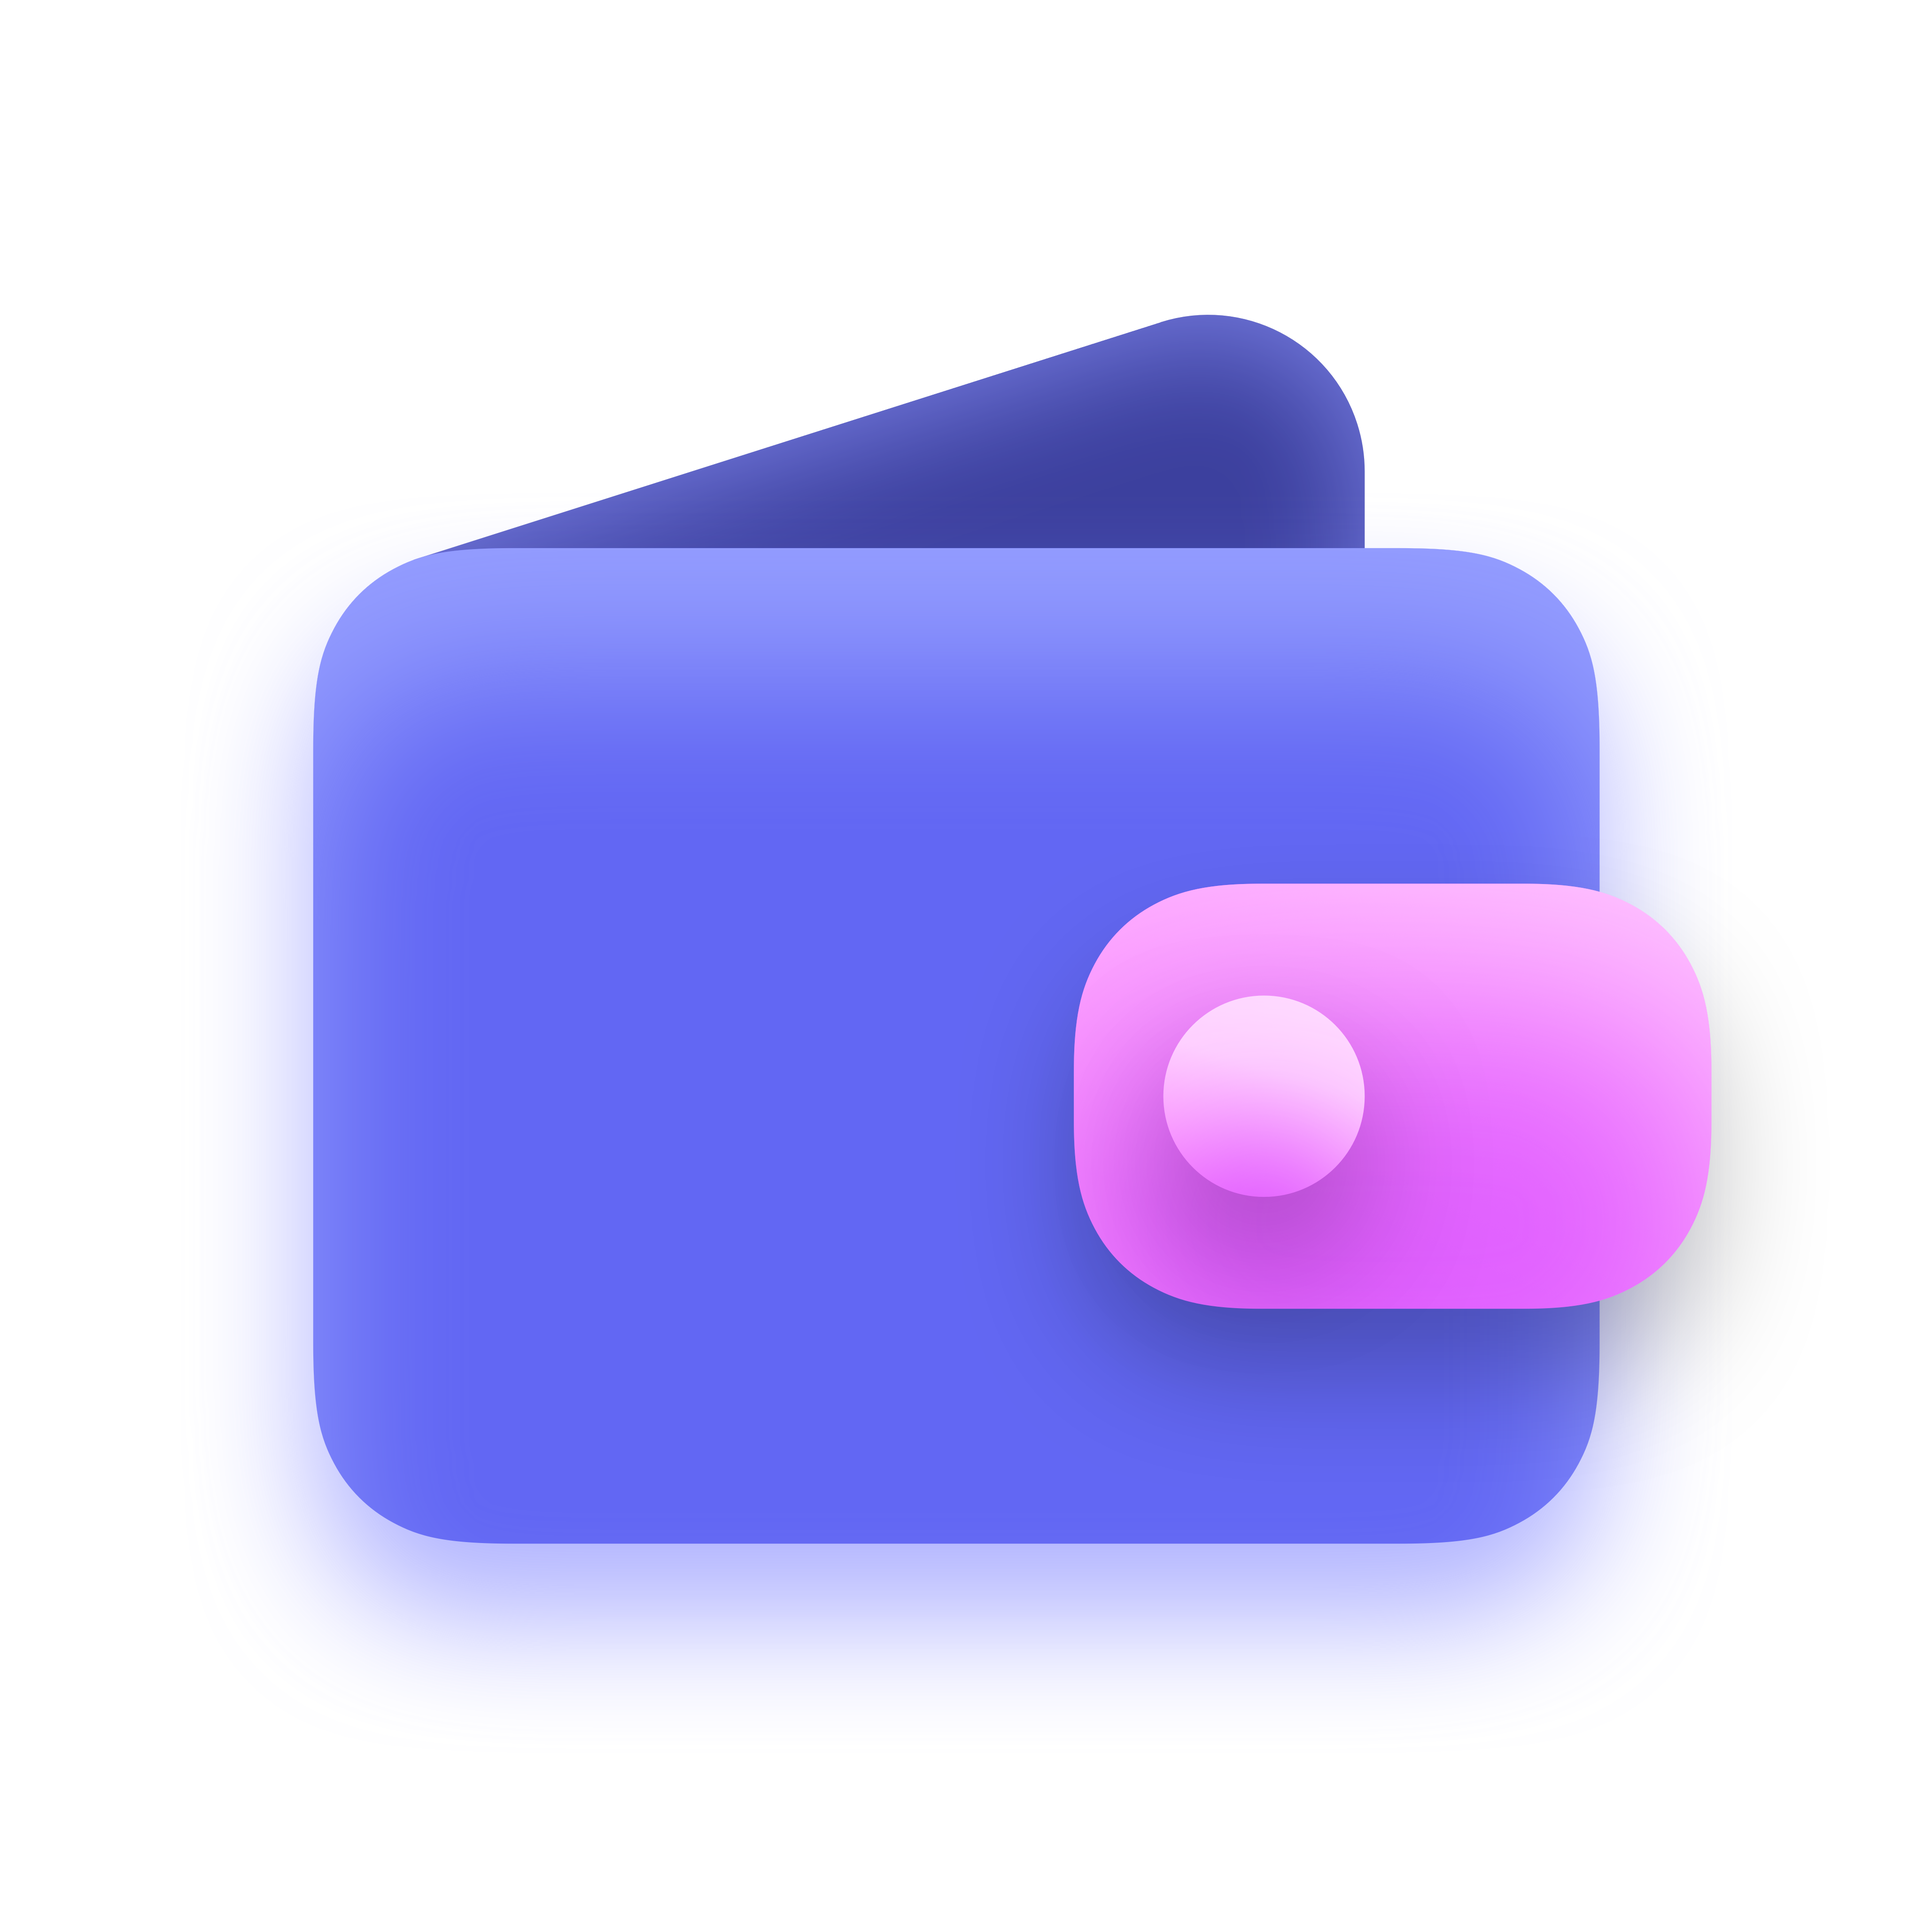
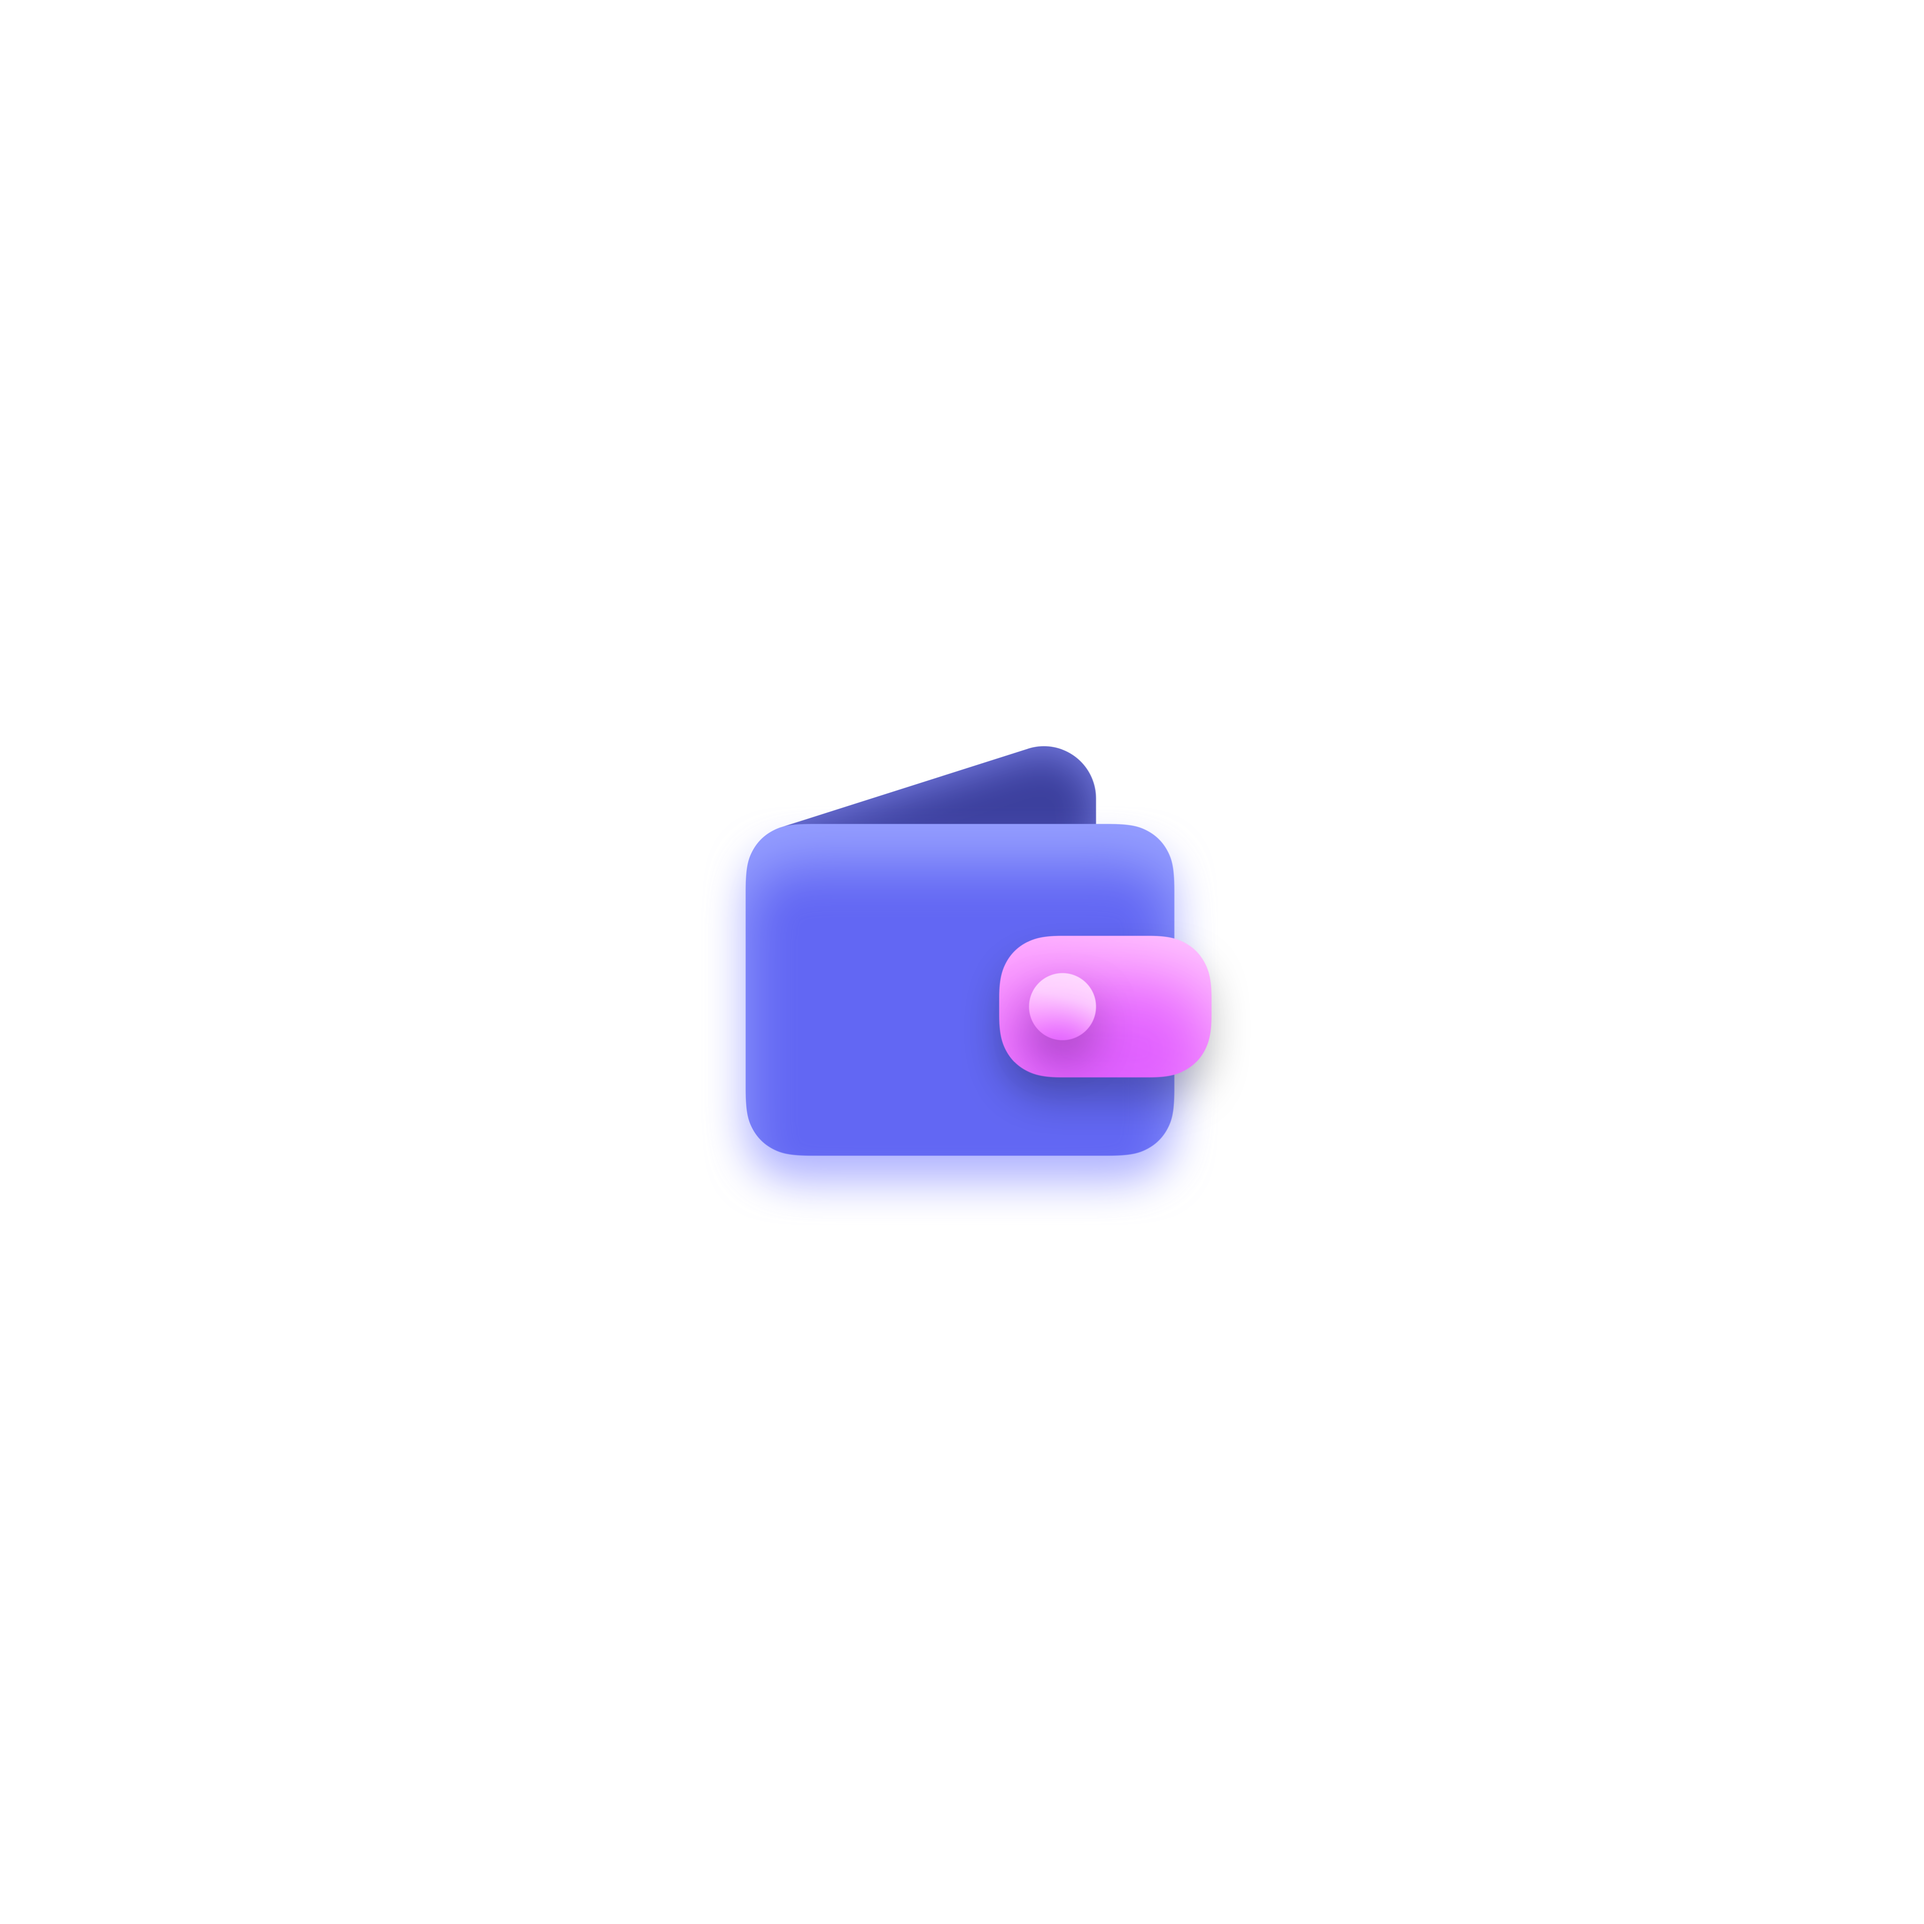
fix

diff --git a/assets/bundle/Readme.md b/assets/bundle/Readme.md
@@ -1,0 +1,3 @@
+ApeToolsGeneratedAssets
+
+https://apetools.webprofusion.com/#/tools/imagegorilla
